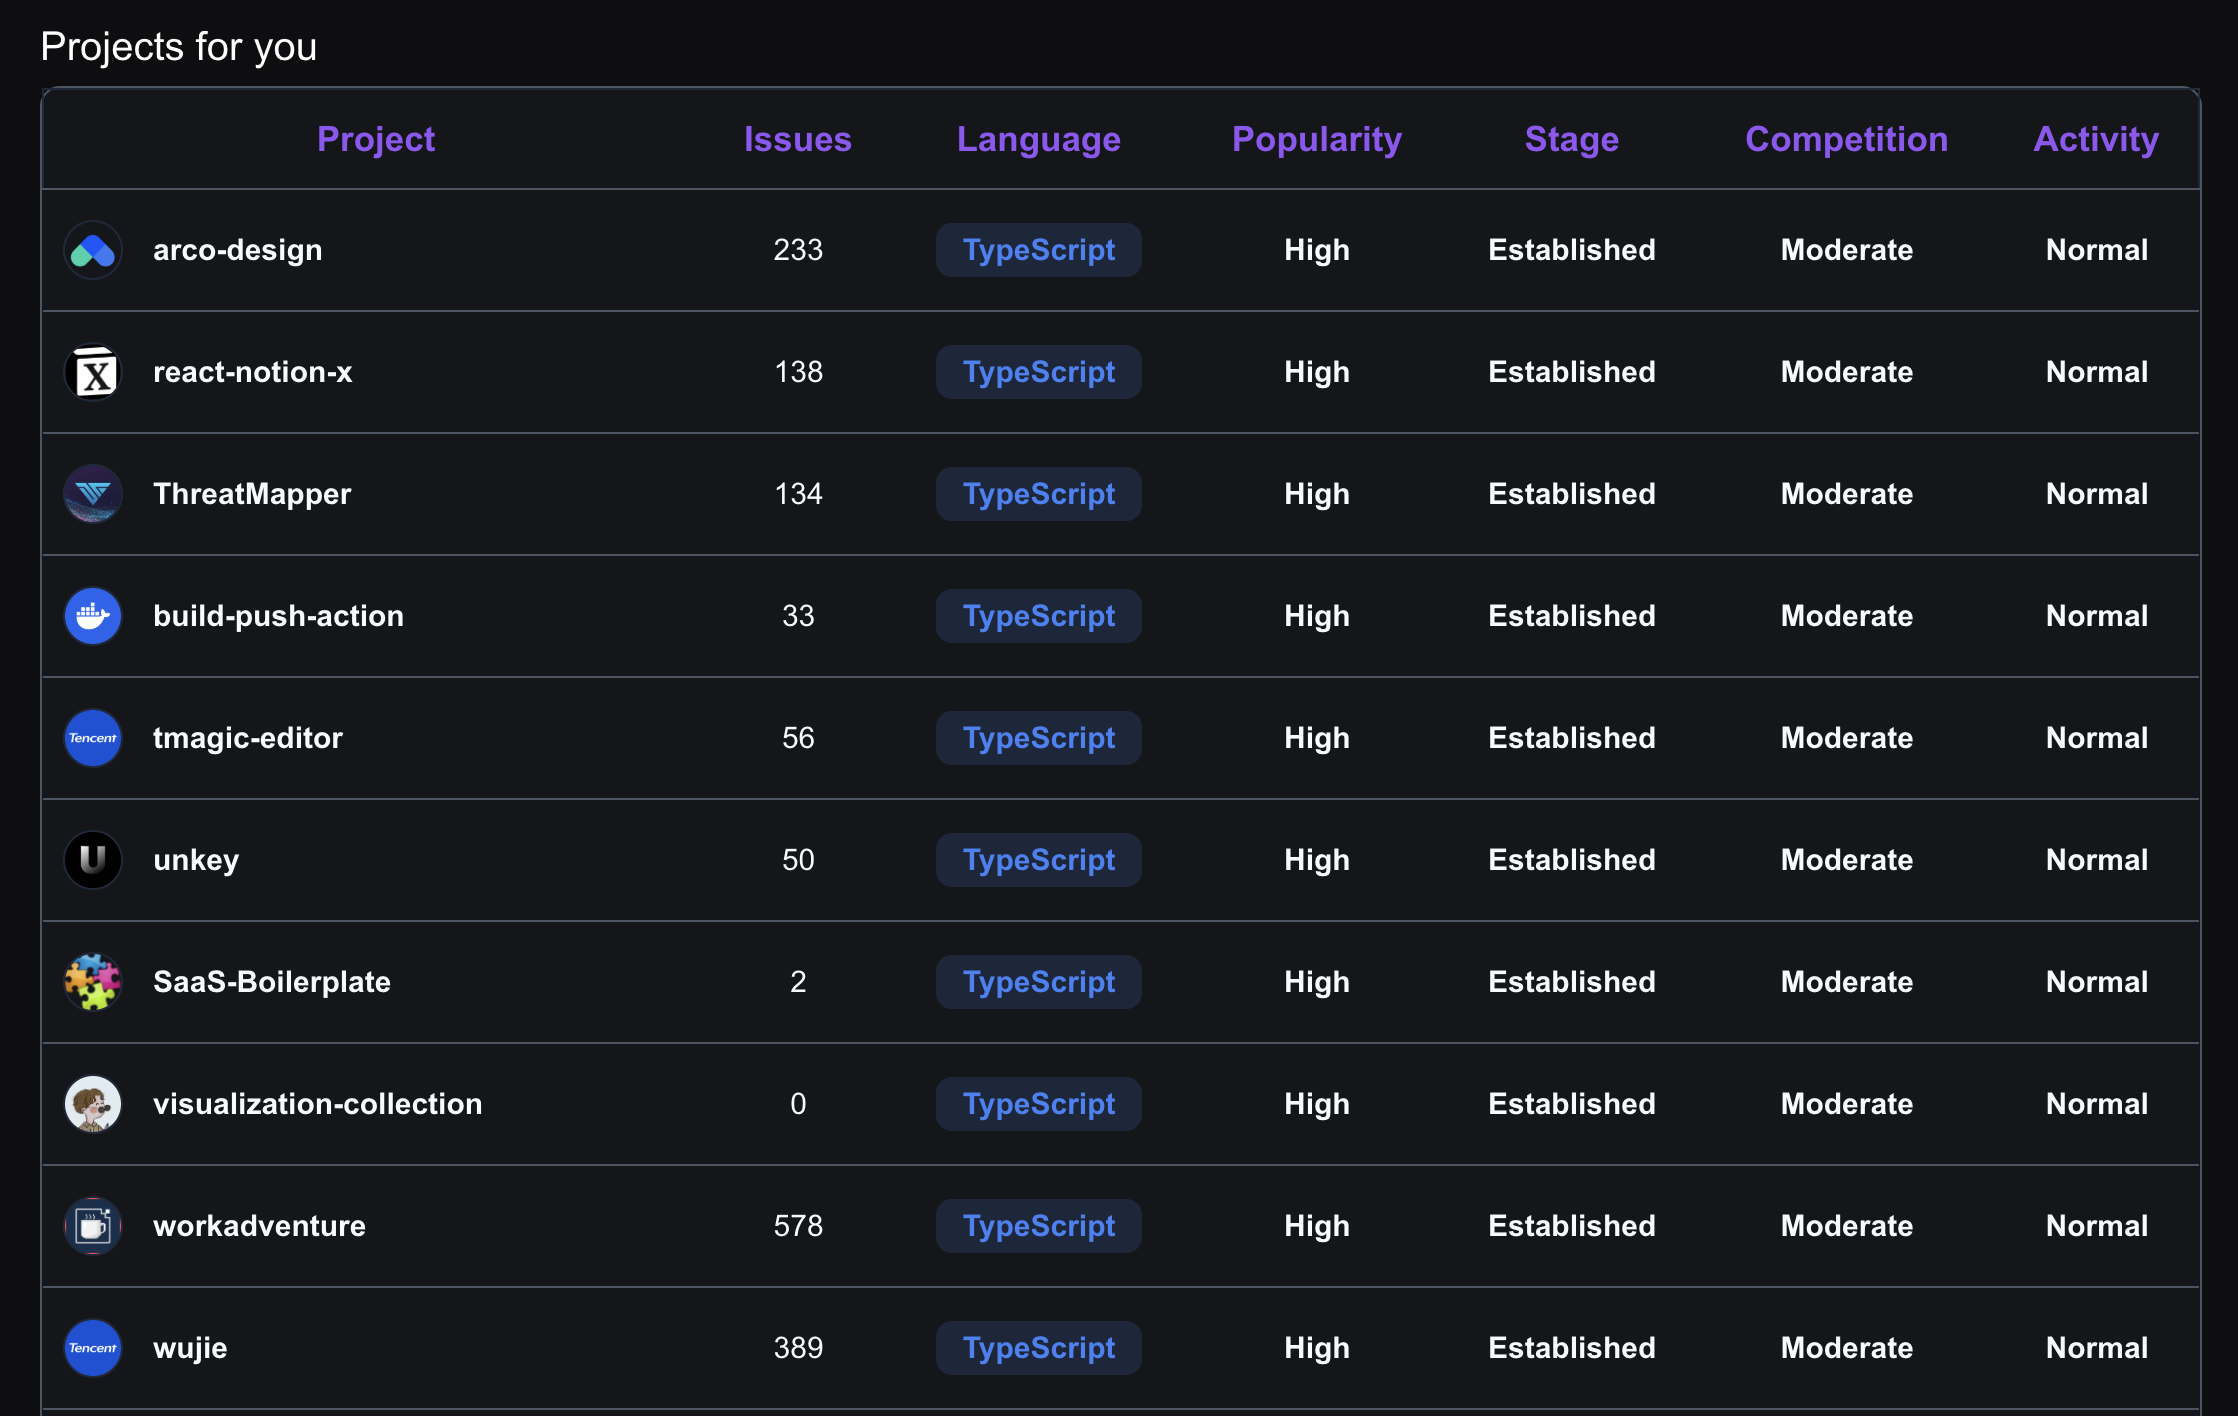
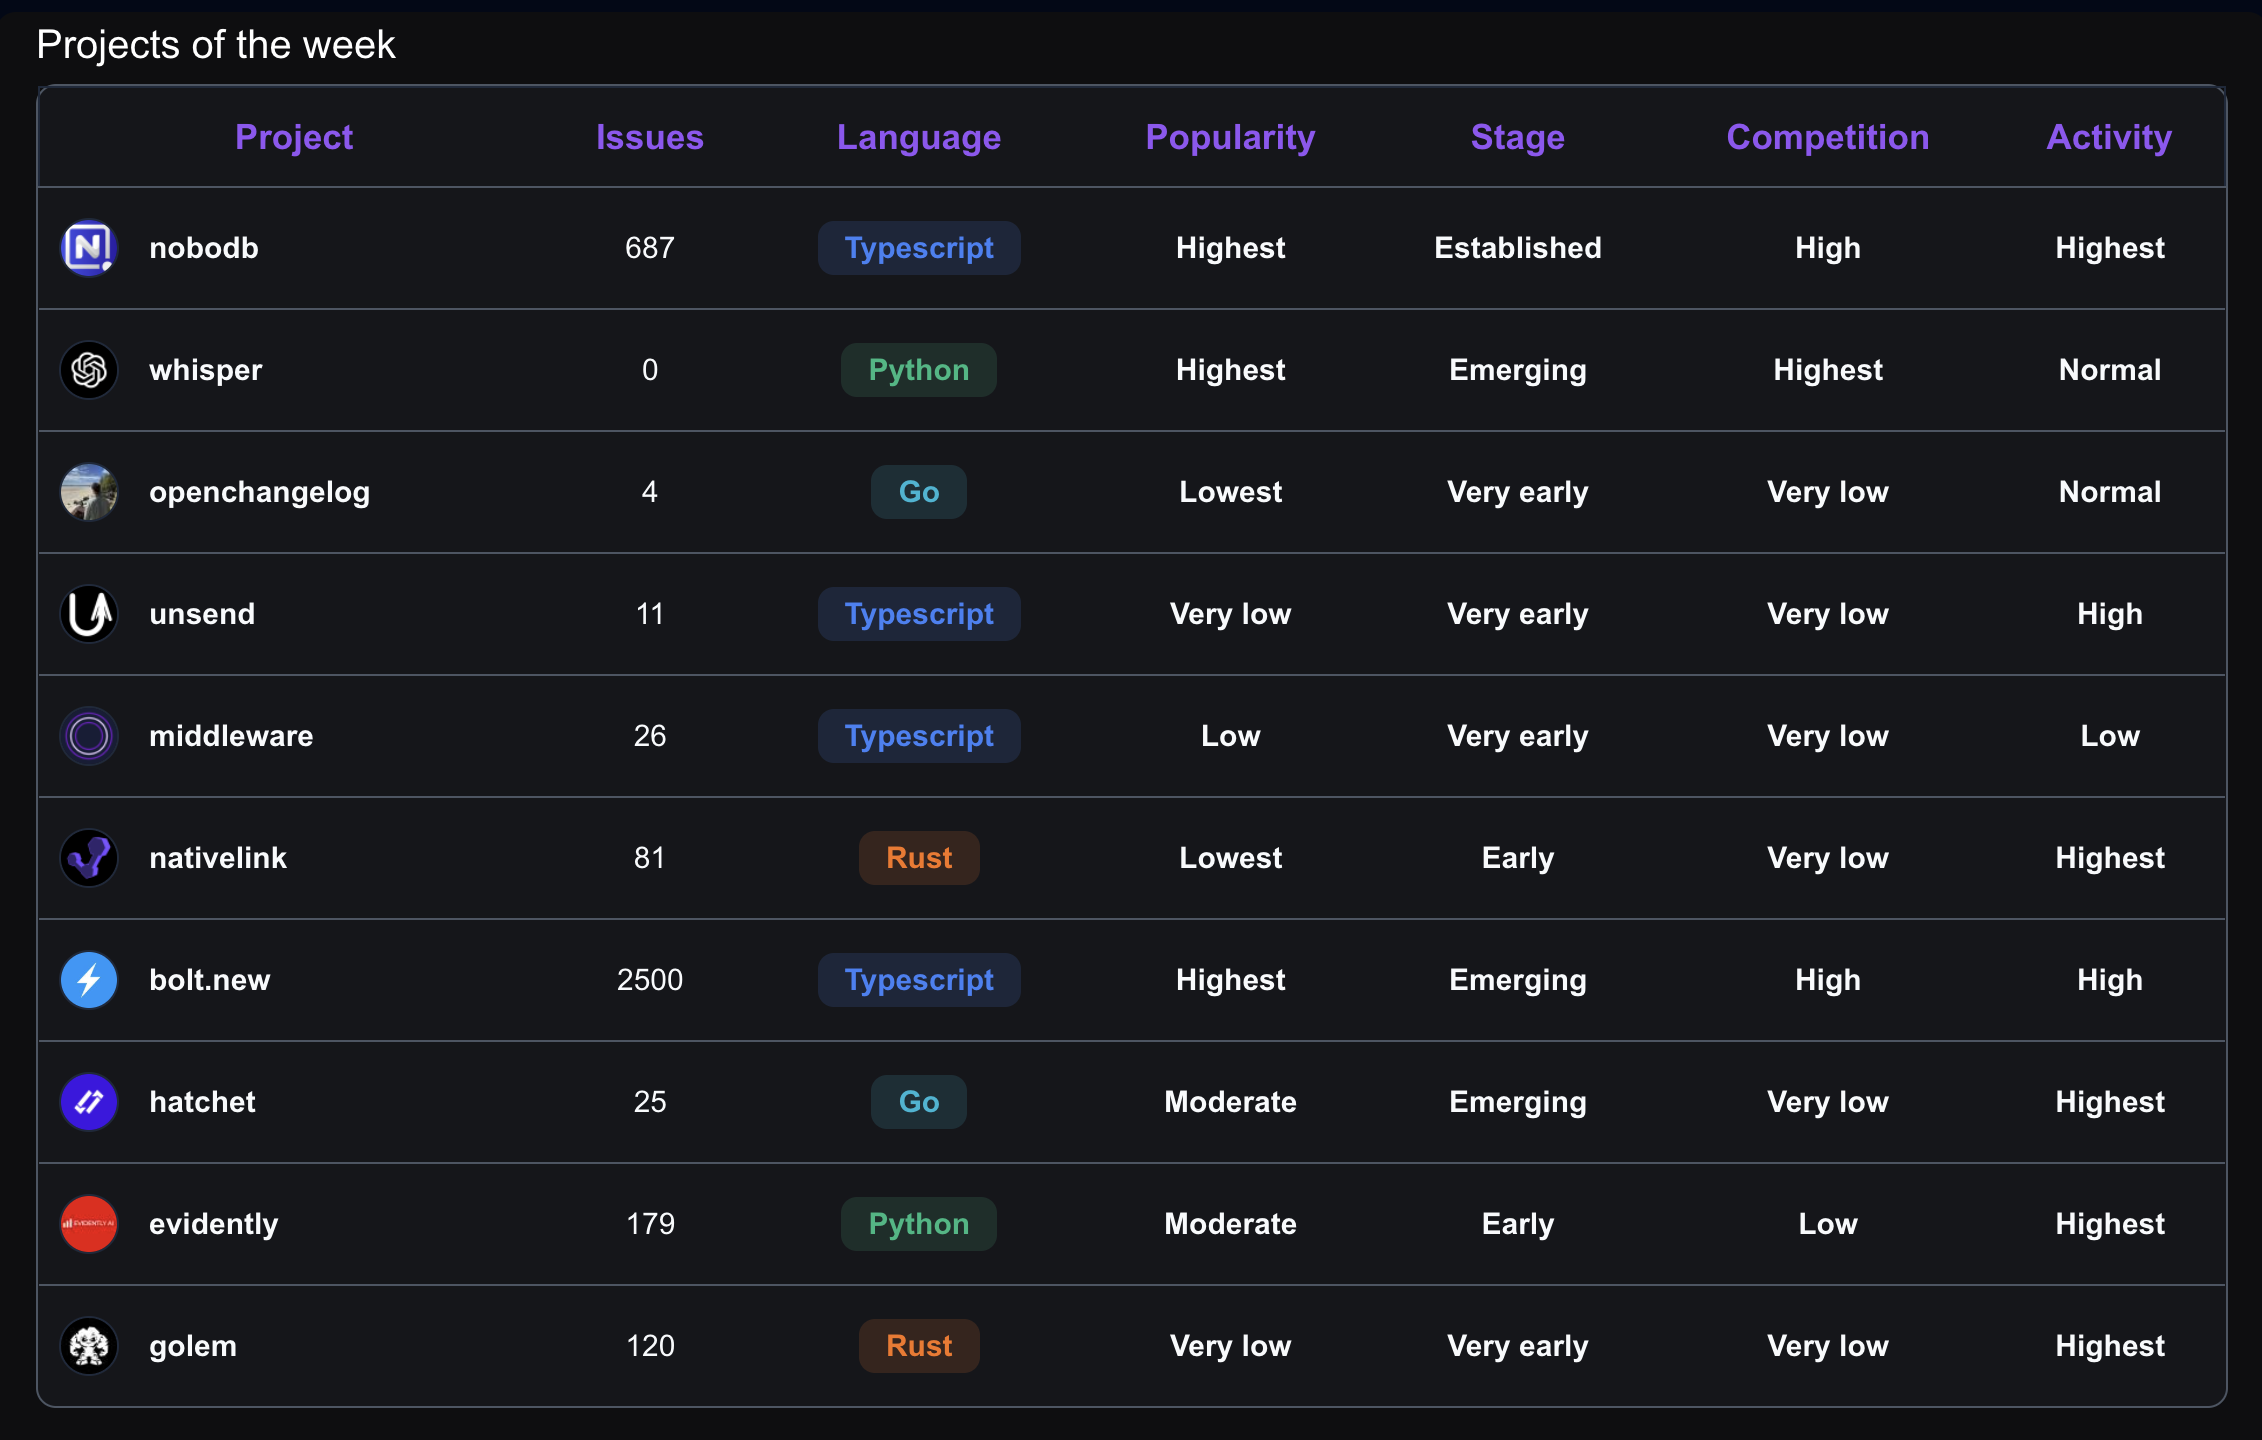
feat/ui: change demo image in landing page

diff --git a/apps/web/src/components/dashboard/DashboardContainer.tsx b/apps/web/src/components/dashboard/DashboardContainer.tsx
@@ -8,7 +8,11 @@ import Spinner from "../ui/spinner";
 import { useProjectsFoundStore } from "@/store/useProjectsFoundStore";
 import { ErrMsg } from "../ui/ErrMsg";
 
-export default function DashboardContainer() {
+export default function DashboardContainer({
+  projectsTitle,
+}: {
+  projectsTitle: string;
+}) {
   const { renderProjects } = useRenderProjects();
   const { data } = useProjectsData();
   const { loading } = useLoading();
@@ -21,7 +25,7 @@ export default function DashboardContainer() {
         {renderProjects && (
           <ProjectsContainer
             projects={data}
-            title={"Projects for you"}
+            title={projectsTitle}
           ></ProjectsContainer>
         )}
         {loading && (

diff --git a/apps/web/src/app/(main)/dashboard/page.tsx b/apps/web/src/app/(main)/dashboard/page.tsx
@@ -1,11 +1,11 @@
-"use client"
+"use client";
 
-import DashboardContainer from '@/components/dashboard/DashboardContainer'
+import DashboardContainer from "@/components/dashboard/DashboardContainer";
 
-export default function Dashboard() {
-    return (
-        <div>
-            <DashboardContainer></DashboardContainer>
-        </div>
-    )
+export default function Dashboard({ text }: { text: string }) {
+  return (
+    <div>
+      <DashboardContainer projectsTitle={text}></DashboardContainer>
+    </div>
+  );
 }

diff --git a/apps/web/src/app/(main)/dashboard/home/page.tsx b/apps/web/src/app/(main)/dashboard/home/page.tsx
@@ -14,7 +14,7 @@ const Home = () => {
     setData(projectsOfTheWeek);
     setRenderProjects(true);
   }, [setData, setRenderProjects]);
-  return <Dashboard></Dashboard>;
+  return <Dashboard text={"Projects of the week"}></Dashboard>;
 };
 
 export default Home;

diff --git a/apps/web/src/app/(main)/dashboard/projects/page.tsx b/apps/web/src/app/(main)/dashboard/projects/page.tsx
@@ -3,7 +3,7 @@
 import Dashboard from "../page";
 
 const Projects = () => {
-  return <Dashboard></Dashboard>;
+  return <Dashboard text={"Projects for you"}></Dashboard>;
 };
 
 export default Projects;
